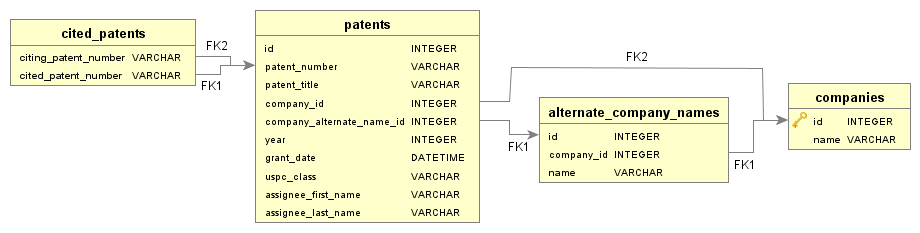
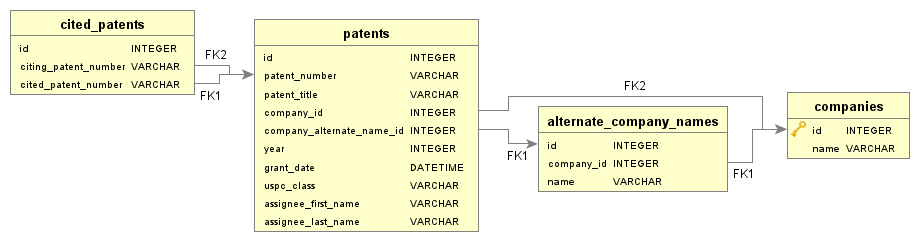
Refactor program
- Add functionality to remove carriage returns and line breaks from company names
- Change unique constraint names
- Change slightly the table structures
- Refactor resume-from-last functionality to retrieve company ids in ascending order
- Remove try-catch from main()
- Update database image

diff --git a/src/main.py b/src/main.py
@@ -9,6 +9,8 @@ import pandas
 from urllib.parse import quote
 import argparse
 from datetime import datetime
+import re
+
 
 Base = declarative_base()
 engine = create_engine('sqlite:///patensview.db')
@@ -52,7 +54,10 @@ class Company(Base):
 
 class Patent(Base):
     __tablename__ = 'patents'
-    # id/patent_id
+    # the combination of Patent Number, Company Name ID, and Alternate Name ID should be unique
+    # Source: https://stackoverflow.com/a/10061143/6288413
+    __table_args__ = (UniqueConstraint('patent_number', 'company_id', 'company_alternate_name_id',
+                                       name='_patents_uc'),)
     id = Column(Integer, primary_key=True)
     patent_number = Column(String)
     patent_title = Column(String)
@@ -63,11 +68,6 @@ class Patent(Base):
     uspc_class = Column(String)
     assignee_first_name = Column(String)
     assignee_last_name = Column(String)
-
-    # the combination of Patent Number, Company Name ID, and Alternate Name ID should be unique
-    # Source: https://stackoverflow.com/a/10061143/6288413
-    __table_args__ = (UniqueConstraint('patent_number', 'company_id', 'company_alternate_name_id',
-                                       name='_customer_location_uc'),)
 
     def __init__(self, patent_number, patent_title, company_id, year, grant_date, uspc_class,
                  assignee_first_name, assignee_last_name, company_alternate_name_id=None):
@@ -85,9 +85,12 @@ class Patent(Base):
 class CitedPatent(Base):
     __tablename__ = 'cited_patents'
     __table_args__ = (
-        PrimaryKeyConstraint('citing_patent_number', 'cited_patent_number'),
+        # PrimaryKeyConstraint('citing_patent_number', 'cited_patent_number'),
+        UniqueConstraint('citing_patent_number', 'cited_patent_number',
+                         name='_citing_patents_uc'),
     )
-    # id/patent_id
+
+    id = Column(Integer, primary_key=True)
     citing_patent_number = Column(String, ForeignKey('patents.patent_number'))
     cited_patent_number = Column(String, ForeignKey('patents.patent_number'))
 
@@ -219,9 +222,10 @@ def insert_names(file_path):
         Company.add_companies(df["Name 1"].to_list())
         for _, row in df.iterrows():
             index = df.columns.get_loc("Name 1")
-            primary_name = row[index]
+            primary_name = re.sub(" +", " ", re.sub("(\r|\n)", " ", row[index]))
             primary_id = session.query(Company.id).filter_by(name=primary_name).scalar()
-            alternate_names = [name for name in row[index+1:] if type(name) == str]
+            alternate_names = [re.sub(" +", " ", re.sub("(\r|\n)", " ", name))
+                               for name in row[index+1:] if type(name) == str]
             insert_alternate_names(primary_id, alternate_names, False)
         session.commit()
 
@@ -363,11 +367,11 @@ def add_patents(patents):
 
 
 def fetch_patents_for_all_companies_in_db(resume_from_latest=False):
-    if resume_from_latest:
-        max_company_id = session.query(func.max(Patent.company_id)).scalar()
+    max_company_id = session.query(func.max(Patent.company_id)).scalar()
+    if resume_from_latest and max_company_id:
         company_query = session.query(Company.id).filter(Company.id >= max_company_id).order_by(Company.id.asc()).all()
     else:
-        company_query = session.query(Company.id).all()
+        company_query = session.query(Company.id).order_by(Company.id.asc()).all()
 
     # Insert patents
     for company_id in company_query:
@@ -411,14 +415,11 @@ def main():
     if options.start_date:
         end_date = options.end_date[0]
 
-    try:
-        # add_patents(get_all_company_patents("Abbott Laboratories", start_date, end_date, verbose=options.verbose))
-        fetch_patents_for_all_companies_in_db(resume_from_latest=True)
-        # fetch_patents_for_all_companies_in_db()
+    # add_patents(get_all_company_patents("Abbott Laboratories", start_date, end_date, verbose=options.verbose))
+    fetch_patents_for_all_companies_in_db(resume_from_latest=True)
+    # fetch_patents_for_all_companies_in_db()
 
-        fetch_all_cited_patents_for_all_patents_in_db()
-    except Exception as e:
-        print("Error: %s" % e)
+    fetch_all_cited_patents_for_all_patents_in_db()
 
 
 def get_options():
